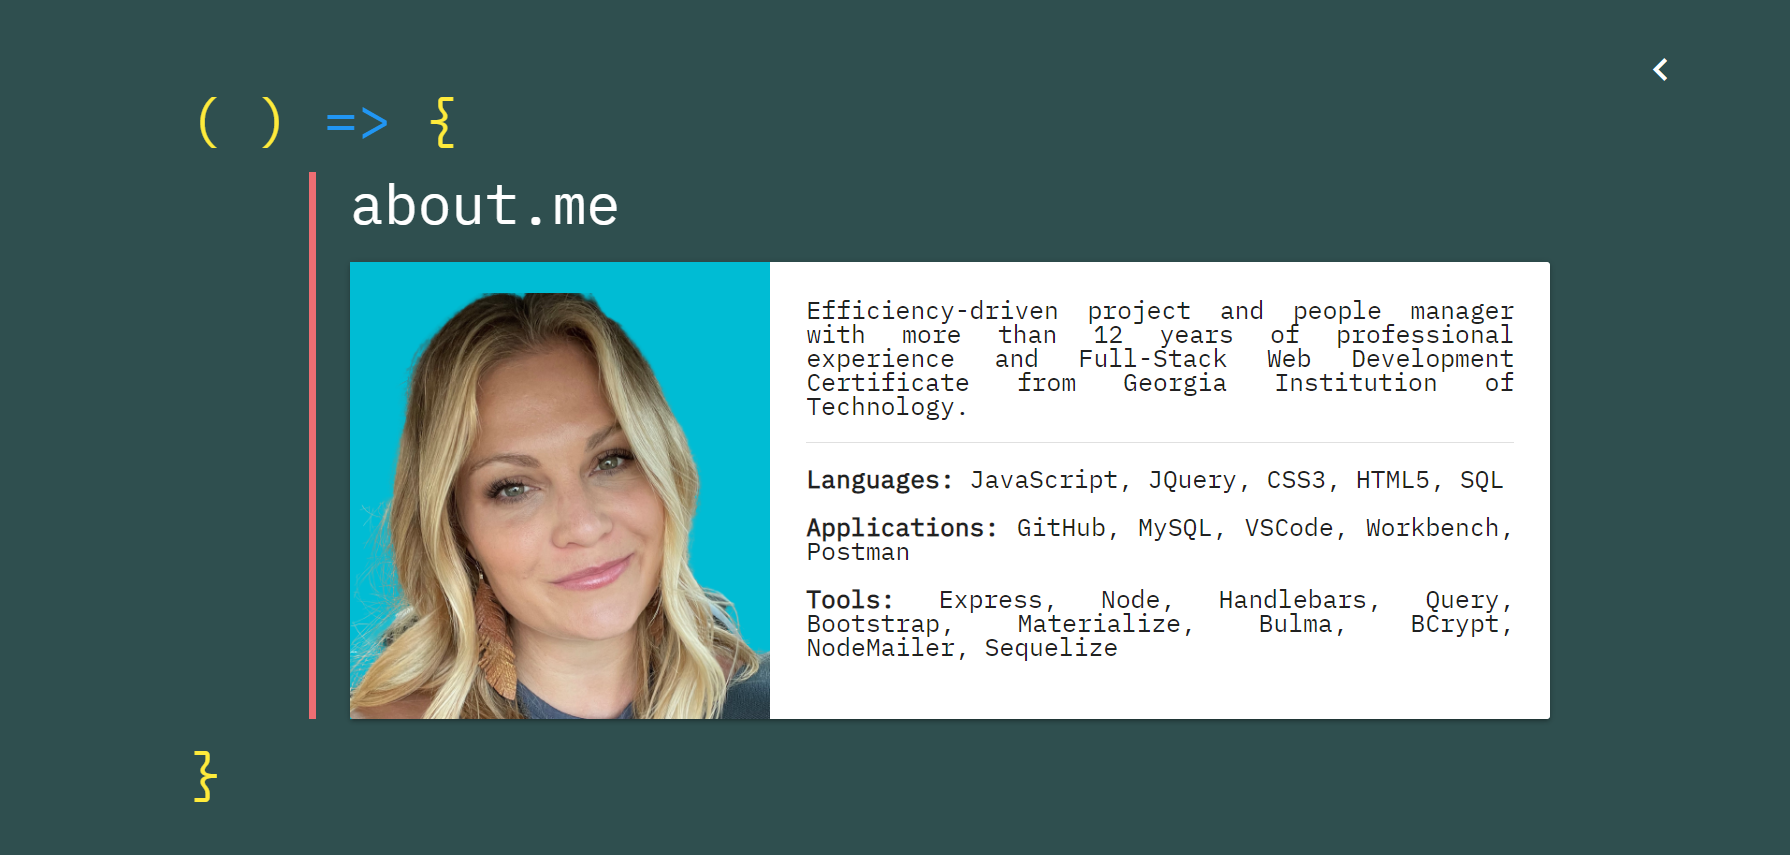
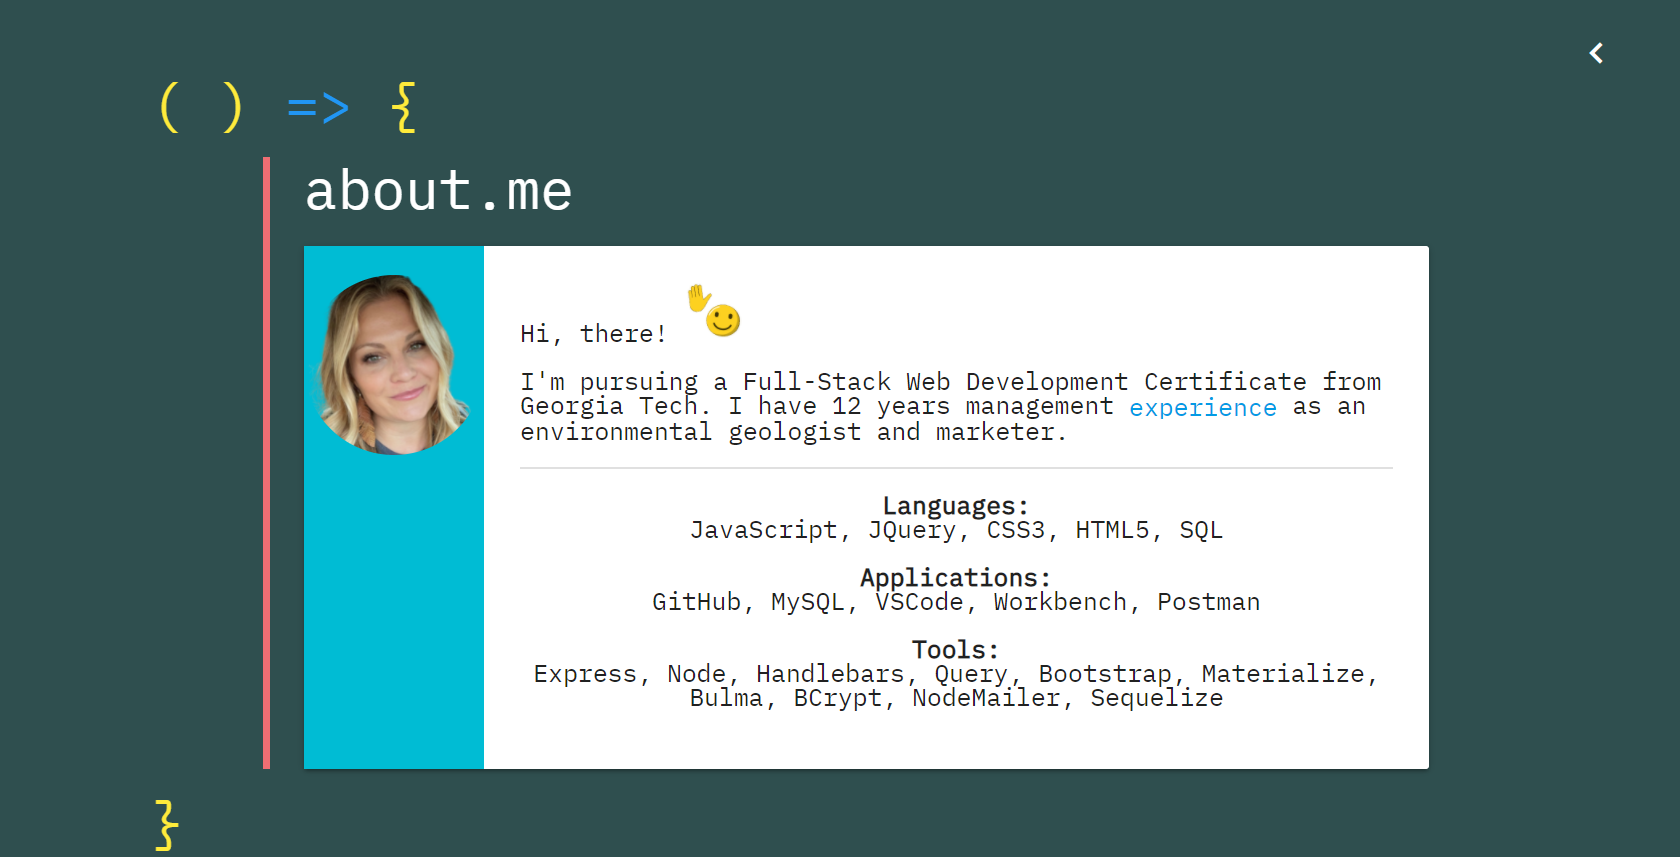
updated about me screenshot for README

Changed region(s): [[0.1548, 0.1825, 0.8667, 0.9123], [0.0929, 0.0912, 0.2476, 0.152], [0.0929, 0.8819, 0.1238, 1.0]]

diff --git a/public/assets/css/style.css b/public/assets/css/style.css
@@ -141,6 +141,7 @@ blockquote h1 {
 #about-pic {
   width: 4rem;
   height: 4rem;
+  border-radius: 50%;
 }
 
 .card.horizontal {
@@ -277,8 +278,8 @@ blockquote h1 {
   }
 
   #about-pic {
-    width: 8rem;
-    height: 8rem;
+    width: 12rem;
+    height: 12rem;
   }
 }
 
@@ -341,8 +342,6 @@ blockquote h1 {
   #about-pic {
     top: 1.313rem;
     bottom: -1.313rem;
-    width: 8rem;
-    height: 8rem;
   }
 }
 
